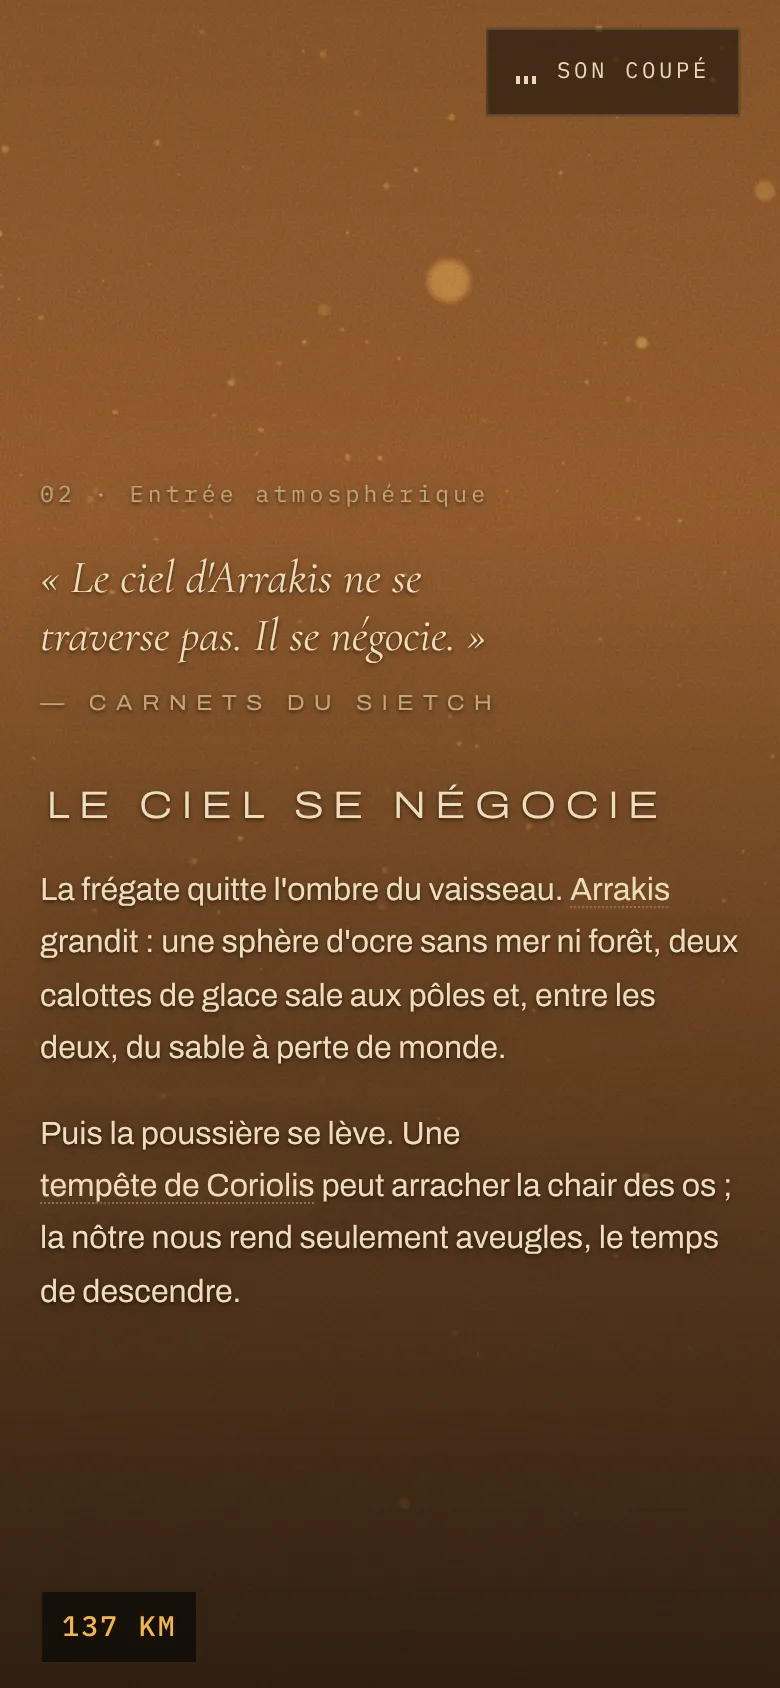
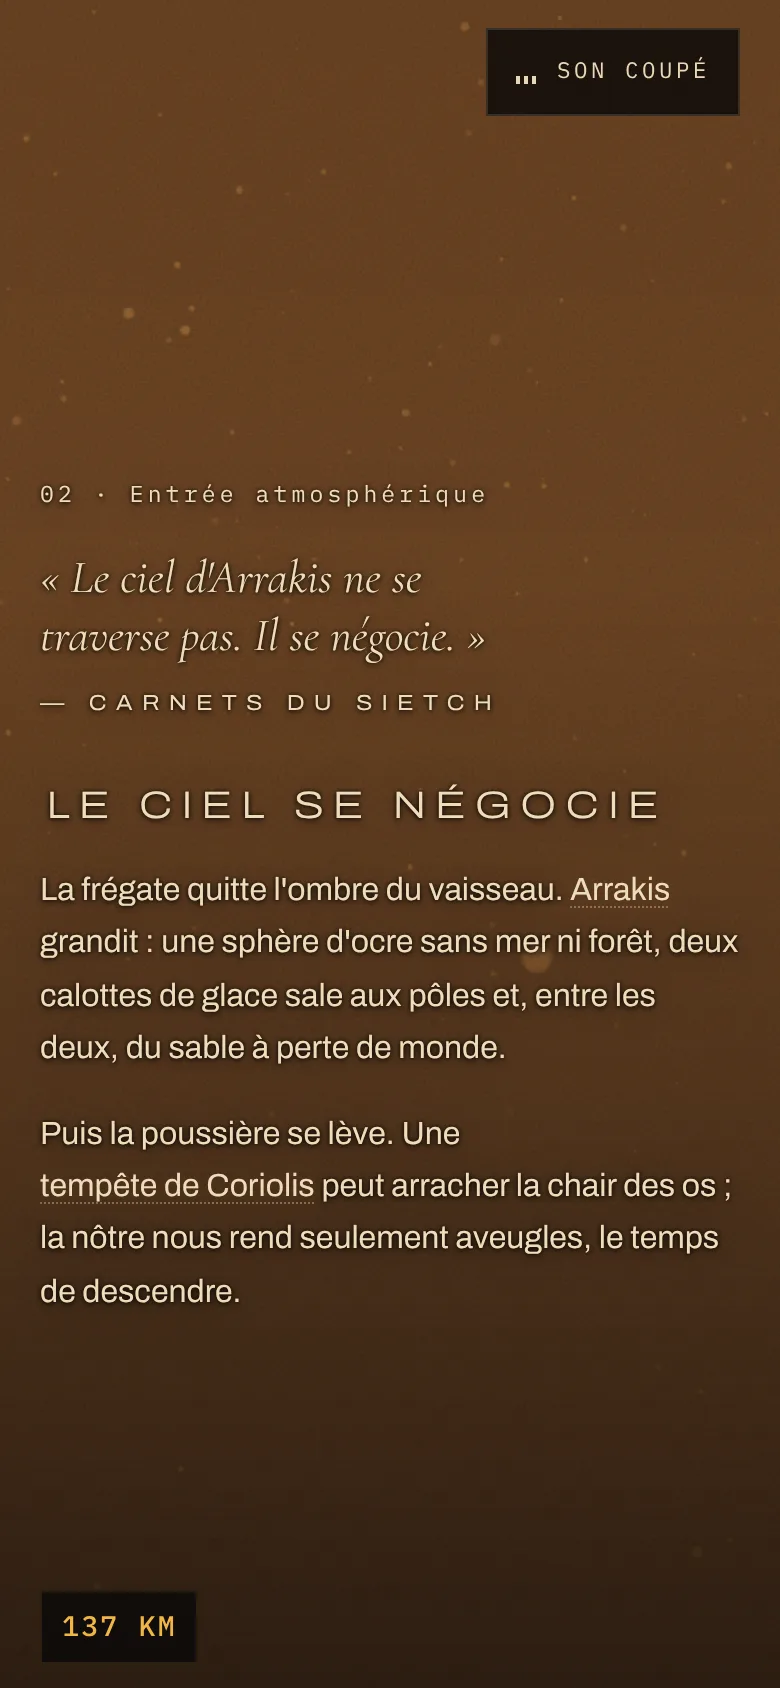
lisibilité en plein jour : voile fixe renforcé (colonne gauche bureau, tiers haut téléphone), halo serré + large, indices et signatures en couleur de texte sur le monde rendu ; mesure scripts/diag-contraste.mjs (14 blocs sous seuil → 1 à 4,43 couvert par le halo) ; captures refaites
Claude-Session: https://claude.ai/code/session_01U1pct5BcuW4HXt57W7n8JT

diff --git a/app/globals.css b/app/globals.css
@@ -172,8 +172,10 @@ main { position: relative; z-index: 1; }
 
 /* Voiles de lisibilité (jamais de flou) */
 .scene__veil { display: none; }
-.descent-veil { position: fixed; inset: 0; z-index: 0; pointer-events: none; background: linear-gradient(to top, rgba(11, 9, 8, 0.66) 0%, rgba(11, 9, 8, 0.30) 38%, rgba(11, 9, 8, 0.04) 64%, rgba(11, 9, 8, 0.16) 100%); }
-.scene__sticky, .hero { text-shadow: 0 1px 2px rgba(0, 0, 0, 0.6), 0 0 22px rgba(0, 0, 0, 0.45); }
+.descent-veil { position: fixed; inset: 0; z-index: 0; pointer-events: none; background: linear-gradient(to right, rgba(11, 9, 8, 0.30) 0%, rgba(11, 9, 8, 0.20) 40%, rgba(11, 9, 8, 0) 68%), linear-gradient(to top, rgba(11, 9, 8, 0.66) 0%, rgba(11, 9, 8, 0.30) 38%, rgba(11, 9, 8, 0.06) 64%, rgba(11, 9, 8, 0.18) 100%); }
+/* Halo serré + halo large : le texte clair reste lisible sur le sable du plein jour (mesure : scripts/diag-contraste.mjs). */
+.scene__sticky, .hero { text-shadow: 0 0 2px rgba(0, 0, 0, 0.8), 0 1px 3px rgba(0, 0, 0, 0.7), 0 0 24px rgba(0, 0, 0, 0.5); }
+.scene__sticky .scene__index, .hero .scene__index, .scene__sticky .epigraph cite, .hero .epigraph cite { color: var(--text); }
 .scene--flat { text-shadow: none; }
 .scene--flat .scene__veil { display: block; position: absolute; inset: 0; z-index: -1; pointer-events: none; background: rgba(11, 9, 8, 0.80); }
 .scene { z-index: 1; }
@@ -379,7 +381,7 @@ html[data-motion="reduce"] .scene__sticky { position: relative; }
   .hud--alt { top: auto; bottom: max(12px, env(safe-area-inset-bottom)); left: var(--gutter); padding: 6px 10px; gap: 0; }
   .hud__label, .hud__phase { display: none; }
   .hud__value { font-size: 0.88rem; }
-  .descent-veil { background: linear-gradient(to top, rgba(11, 9, 8, 0.78) 0%, rgba(11, 9, 8, 0.42) 40%, rgba(11, 9, 8, 0.14) 70%, rgba(11, 9, 8, 0.22) 100%); }
+  .descent-veil { background: linear-gradient(to top, rgba(11, 9, 8, 0.8) 0%, rgba(11, 9, 8, 0.56) 35%, rgba(11, 9, 8, 0.42) 65%, rgba(11, 9, 8, 0.44) 100%); }
   .epigraph { font-size: 1.45rem; }
   .monument { letter-spacing: 0.22em; }
   .hero__hint { margin-top: 2rem; }

diff --git a/docs/BIBLE.md b/docs/BIBLE.md
@@ -89,6 +89,7 @@ g) Ciel réel : selon l'heure locale, jour écrasant, crépuscule, nuit aux deux
 
 - 2026-10-18 — **C1 — V1 du Refuge des fans** (branche `claude/sietch-c1-refuge-fans-kd77dr`, miroir `feat/v1`, PR #1 en brouillon, pas de fusion). Bible, squelette Next.js 16 + TypeScript, polices OFL (Archivo, Cormorant Garamond, IBM Plex Mono), direction artistique et pied de page légal ; la descente en sept scènes + pied de page « nuit aux deux lunes » ; compteur d'altitude ; lexique vivant (41 termes, page `/lexique`) ; console Mentat (Dune: Awakening mis en avant, films, livres + guide de lecture, réseaux officiels, carte d'Arrakis cliquable, chronologie de 10 000 ans) ; prescience (voile bleu, comptes à rebours, retour en un clic) ; son généré (nappe, vent, grondement, coupé par défaut, choix mémorisé) ; « marcher sans rythme » (ver qui approche puis s'éloigne, message unique) ; monde three.js en un seul canvas : soute et long-courrier originaux (fuseau à panneaux, anneaux, modules, hublots, feux, frégates), planète en nuanceur, tempête de particules, dunes en relief avec vent et signe du ver, épice, ciel réel (jour / crépuscule / nuit aux deux lunes) ; repli calme (sans WebGL, mouvement réduit, appareil faible) ; three.js chargé après l'intro ou le chargement. Contrôles : typecheck, lint, 9 tests unitaires, build, 15 tests Playwright (bureau + mobile) + test du ver ; captures `docs/captures/v1/` ; Lighthouse mobile simulé (fin de chantier) : performance 91, accessibilité 100, bonnes pratiques 100, référencement 63 (seulement le `noindex` voulu), FCP 1,4 s, LCP 3,3 s (délai de rendu modélisé par Lighthouse — mesuré dans un vrai navigateur, le texte du héro est peint à 0,35 s ; à confirmer sur le téléphone de Johan / PageSpeed une fois en préversion), CLS 0, TBT 110 ms.
 - 2026-10-18 — **C1, finitions** : relecture de tous les contenus (Carthag au nord-est d'Arrakeen, années de « Great Schools of Dune », page légale : les trois mémorisations du navigateur) ; lissages du monde indépendants de la cadence (le « voile beige » du désert dans les premières captures bureau était la caméra du rendu logiciel encore en route : corrigé à la source, captures v1 refaites avec `--wait=4000`) ; options `--wait`, `--only`, `--view` du script de captures.
+- 2026-10-18 — **C1, lisibilité en plein jour** : mesure `scripts/diag-contraste.mjs` (texte masqué, luminance moyenne du fond rendu, rapport WCAG sans compter le halo) — avant : 14 blocs sous le seuil en ciel de jour (petits libellés en couleur atténuée, haut de l'écran téléphone) ; après : 1 bloc à 4,43 (indice « 02 · Entrée atmosphérique », 12 px, couvert par le halo). Correctifs : voile fixe renforcé (colonne gauche sur ordinateur, tiers haut sur téléphone), halo serré + halo large, indices et signatures d'épigraphe en couleur de texte dans les scènes sur fond rendu ; héro téléphone : vaisseau dans le coin supérieur droit ; altitude « −80 M » sous le roc.
 
 ## Reste à faire
 
